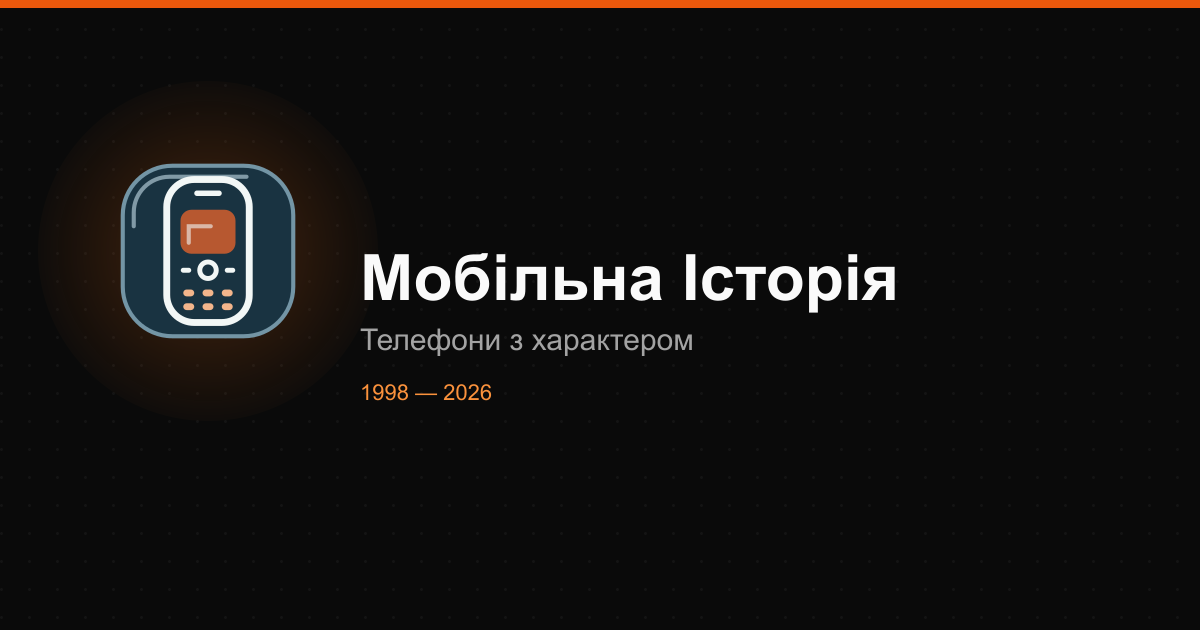
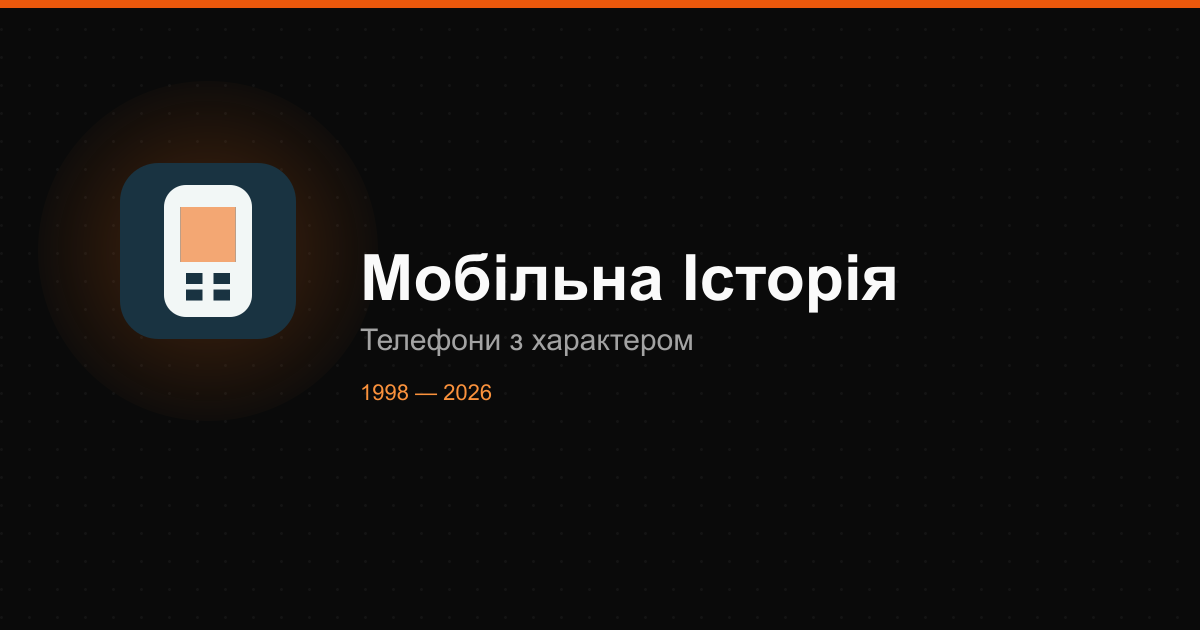
Refactor navigation and layout adjustments for phone catalog and details

Changed region(s): [[0.0925, 0.2413, 0.2467, 0.5429]]

diff --git a/src/components/CompareIsland.tsx b/src/components/CompareIsland.tsx
@@ -24,7 +24,12 @@ type Slot = 'a' | 'b';
 
 function PlaceholderIcon({ className }: { className?: string }) {
   return (
-    <svg viewBox="0 0 200 150" className={className} aria-hidden="true"><path d="M43 52h18M139 98h18" stroke="currentColor" strokeWidth="2" strokeLinecap="round" opacity=".25"/><g transform="translate(52 27) scale(1.5)"><rect x="17" y="6" width="30" height="52" rx="10" fill="none" stroke="currentColor" strokeWidth="2.5"/><path d="M28 11h8" stroke="currentColor" strokeWidth="2" strokeLinecap="round"/><rect x="22" y="17" width="20" height="16" rx="4" fill="none"/><path d="M25 29V23h8" fill="none" stroke="currentColor" strokeWidth="1.5" strokeLinecap="round" opacity=".6"/><circle cx="32" cy="39" r="3" fill="none" stroke="currentColor" strokeWidth="1.8"/><path d="M23 39h2m14 0h2" stroke="currentColor" strokeWidth="1.8" strokeLinecap="round"/><rect x="23" y="46" width="4" height="2.5" rx="1.25" fill="currentColor"/><rect x="30" y="46" width="4" height="2.5" rx="1.25" fill="currentColor"/><rect x="37" y="46" width="4" height="2.5" rx="1.25" fill="currentColor"/><rect x="23" y="51" width="4" height="2.5" rx="1.25" fill="currentColor"/><rect x="30" y="51" width="4" height="2.5" rx="1.25" fill="currentColor"/><rect x="37" y="51" width="4" height="2.5" rx="1.25" fill="currentColor"/></g></svg>
+    <svg viewBox="0 0 200 150" className={className} aria-hidden="true">
+      <g transform="translate(52 27) scale(1.5)">
+        <path fill="currentColor" fillRule="evenodd" d="M24 8h16a8 8 0 0 1 8 8v32a8 8 0 0 1-8 8H24a8 8 0 0 1-8-8V16a8 8 0 0 1 8-8ZM22 16v20h20V16Zm2 24v4h6v-4Zm10 0v4h6v-4ZM24 46v4h6v-4Zm10 0v4h6v-4Z" />
+        <rect x="22" y="16" width="20" height="20" fill="currentColor" opacity=".4" />
+      </g>
+    </svg>
   );
 }
 
@@ -46,16 +51,18 @@ export default function CompareIsland({ phones, locale, strings }: Props) {
   const design = COMPARE_DESIGN[locale];
   const experience = COMPARE_EXPERIENCE[locale];
   const bySlug = useMemo(() => new Map(phones.map((p) => [p.slug, p])), [phones]);
-  const suggestedMatchups = [
-    { a: 'nokia-3210', b: 'nokia-3310', story: strings.compare.suggestions.gsmEra },
-    { a: 'sony-ericsson-w800i', b: 'motorola-rokr-e1', story: strings.compare.suggestions.musicPhones },
-    { a: 'motorola-razr-v3', b: 'nokia-n95', story: strings.compare.suggestions.mechanics },
-  ].flatMap(({ a, b, story }) => {
-    const first = bySlug.get(a);
-    const second = bySlug.get(b);
-    return first && second ? [{ first, second, story }] : [];
+  const featuredPairs = [
+    { a:'siemens-a65', b:'siemens-sxg75', uk:'На A65 головними були дзвінки й SMS. SXG75 додав відеодзвінки через UMTS і навігацію з GPS.', ru:'У A65 в центре были звонки и SMS. SXG75 добавил видеозвонки через UMTS и навигацию с GPS.', en:'The A65 focused on calls and texts. The SXG75 added video calls over UMTS and GPS navigation.' },
+    { a:'nokia-6800', b:'siemens-sk65', uk:'Nokia 6800 розкладала клавіатуру навколо екрана, а SK65 відкривав QWERTY поворотом корпусу.', ru:'Nokia 6800 раскладывала клавиатуру вокруг экрана, а SK65 открывал QWERTY поворотом корпуса.', en:'The Nokia 6800 unfolded its keyboard around the screen. The SK65 exposed its QWERTY keys with a twist.' },
+    { a:'nokia-n70', b:'sony-ericsson-k750i', uk:'В обох зйомка починалася зі зсуву шторки. У N70 була також фронтальна камера для відеодзвінків, а K750i мав автофокус для знімків зблизька.', ru:'В обоих съёмка начиналась со сдвига шторки. У N70 была и фронтальная камера для видеозвонков, а K750i получил автофокус для близких планов.', en:'Sliding open the lens cover started the camera on both. The N70 also offered a front camera for video calls, while the K750i offered autofocus for close-ups.' },
+  ];
+  const suggestedMatchups = featuredPairs.flatMap(pair => {
+    const first = bySlug.get(pair.a);
+    const second = bySlug.get(pair.b);
+    return first && second ? [{ first, second, story: pair[locale] }] : [];
   });
   const pairNotes = [
+    ...featuredPairs,
     { a:'nokia-3250', b:'sony-ericsson-k750i', uk:'У Nokia 3250 поворот блока відкриває музичні клавіші, а в K750i зсув шторки об’єктива запускає камеру.', ru:'У Nokia 3250 поворот блока открывает музыкальные клавиши, а у K750i сдвиг шторки объектива запускает камеру.', en:'Twist the Nokia 3250 to uncover its music keys, or slide open the K750i lens cover to launch its camera.' },
     { a:'nokia-3210', b:'nokia-3310', uk:'Nokia 3210 зробила SMS зручнішими завдяки T9, а 3310 дозволяла писати довші повідомлення.', ru:'Nokia 3210 упростила набор SMS с помощью T9, а 3310 позволяла писать более длинные сообщения.', en:'The Nokia 3210 made texting easier with T9, while the 3310 let you compose longer messages.' },
     { a:'sony-ericsson-w800i', b:'motorola-rokr-e1', uk:'W800i давав швидкий доступ до Walkman окремою клавішею, а ROKR E1 переносив музику з настільного iTunes.', ru:'W800i открывал Walkman отдельной клавишей, а ROKR E1 переносил музыку из настольного iTunes.', en:'The W800i opened Walkman with a dedicated key, while the ROKR E1 brought over music from desktop iTunes.' },
@@ -133,7 +140,7 @@ export default function CompareIsland({ phones, locale, strings }: Props) {
     }
   };
   const quickPhones = (other: string | null) => {
-    const curated = ['nokia-3310', 'motorola-razr-v3', 'sony-ericsson-w800i', 'siemens-sl55', 'nokia-7610', 'nokia-n95'];
+    const curated = ['siemens-sk65', 'nokia-6800', 'sony-ericsson-k750i', 'nokia-n70', 'siemens-a65', 'siemens-sxg75'];
     const opposite = other ? bySlug.get(other) : undefined;
     const sameBrand = opposite ? phones.filter((p) => p.data.year <= 2007 && p.data.brand === opposite.data.brand && p.slug !== other)
       .sort((a, b) => Math.abs(a.data.year - opposite.data.year) - Math.abs(b.data.year - opposite.data.year))
